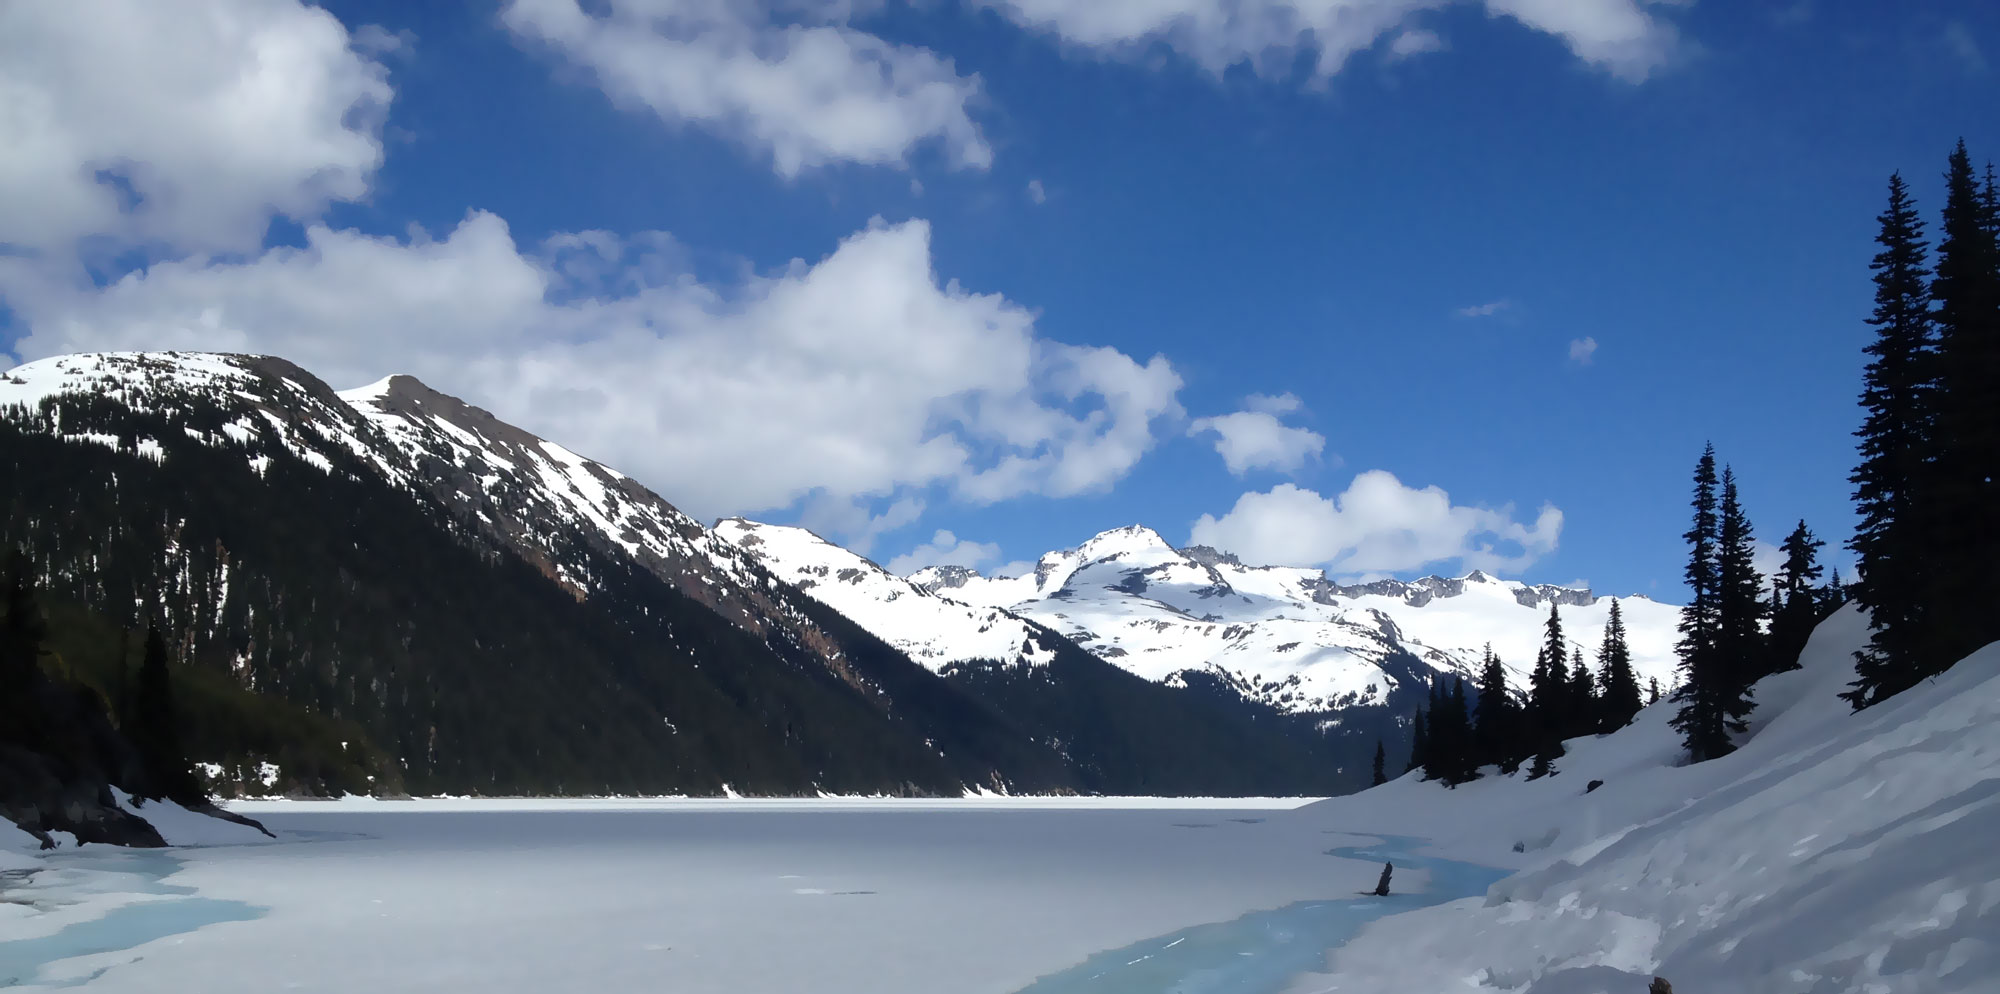
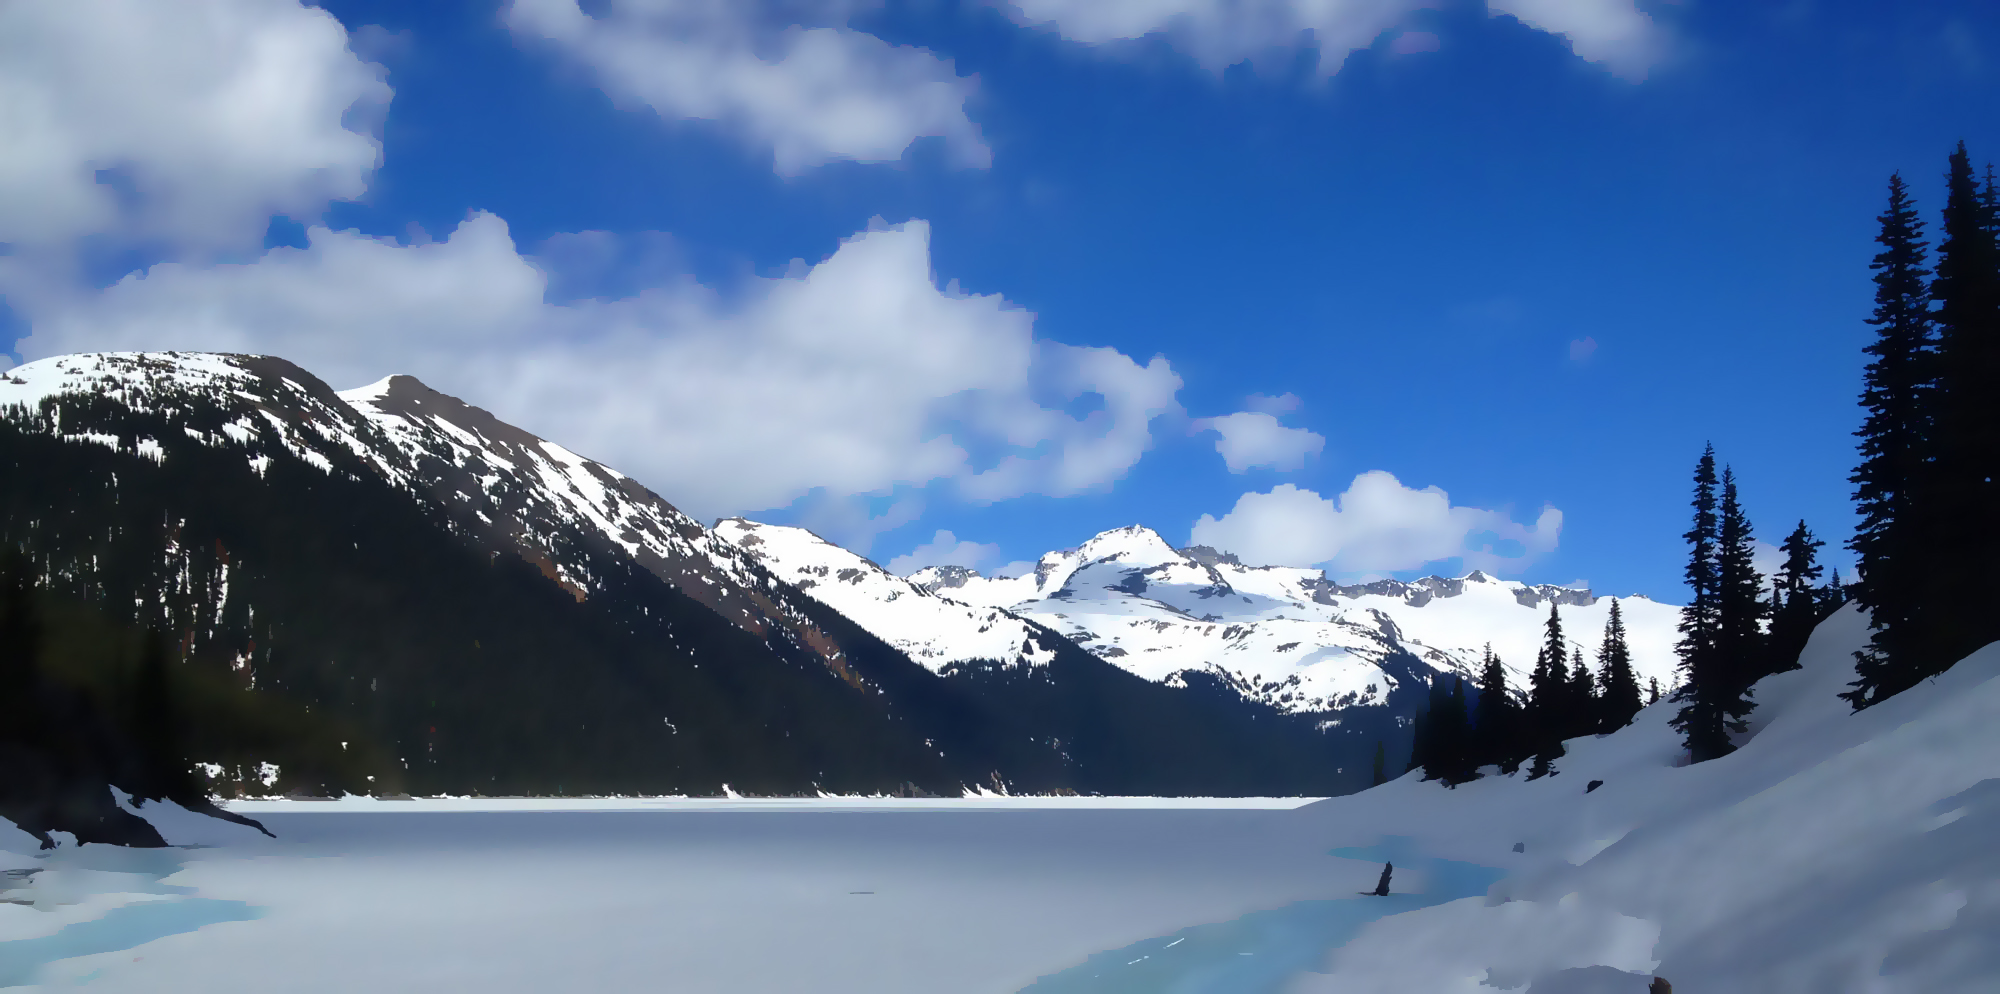
Changed header image. Added all web dev projects. Still need to write descriptions.

diff --git a/_includes/css/main.css b/_includes/css/main.css
@@ -92,7 +92,8 @@ header {
     text-align: center;
     color: #fff;
     {% if site.header.bg-image %}
-      background: url(img/{{ site.header.bg-image }}) no-repeat center center fixed;
+      background: linear-gradient(rgba(0, 0, 0, 0.25), rgba(0, 0, 0, 0.25)),
+                rgba(0,0,0,0.25) url(img/{{ site.header.bg-image }}) no-repeat center center fixed;
       -webkit-background-size: cover;
       -moz-background-size: cover;
       -o-background-size: cover;
